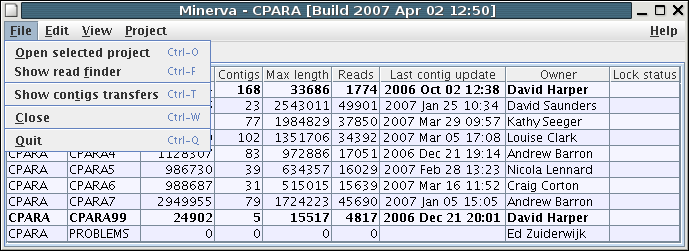
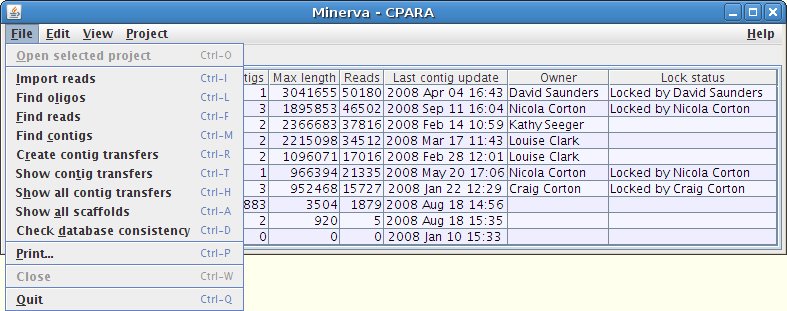
Updated screen shots and fixed some instructions.
git-svn-id: svn+ssh://svn.internal.sanger.ac.uk/repos/svn/arcturus/trunk@3675 69345dfe-1762-0410-a7d4-b9dc18918749

diff --git a/userguide/minerva/project.html b/userguide/minerva/project.html
@@ -162,19 +162,19 @@ tools which Minerva offers.  The <strong>File</strong> menu offers
 several useful options:
 </p>
 <center>
-<img src="screenshots/projects2.png" width="689" height="251" />
+<img src="screenshots/projects2.png" width="787" height="311" />
 </center>
 <p>
 So does the <strong>Project</strong> menu:
 </p>
 <center>
-<img src="screenshots/projects4.png" width="689" height="251" />
+<img src="screenshots/projects4.png" width="787" height="255" />
 </center>
 <p>
 Some options only become available when a project is selected:
 </p>
 <center>
-<img src="screenshots/projects5.png" width="689" height="251" />
+<img src="screenshots/projects5.png" width="787" height="255" />
 </center>
 <p>
 Each option opens a new tab in the organism window.  When several

diff --git a/userguide/minerva/readfinder.html b/userguide/minerva/readfinder.html
@@ -9,10 +9,10 @@ In the <strong>Projects</strong> tab, select the <strong>File</strong>
 menu:
 </p>
 <center>
-<img src="screenshots/projects7.png" height="251" width="689">
+<img src="screenshots/projects2.png" width="787" height="311">
 </center>
 <p>
-When you select the <strong>Show read finder</strong> option,
+When you select the <strong>Find reads</strong> option,
 Minerva displays a new tab:
 </p>
 <center>

diff --git a/userguide/minerva/importreads.html b/userguide/minerva/importreads.html
@@ -11,9 +11,9 @@ the
 <strong>Project</strong> menu:
 </p>
 <center>
-<img src="screenshots/importreads1.png" height="250" width="770"></center>
+<img src="screenshots/projects2.png" width="787" height="311">
 <p>
-When you select the <strong>Import reads into project</strong> option,
+When you select the <strong>Import reads</strong> option,
 Minerva displays a new tab:
 </p>
 <center>

diff --git a/userguide/minerva/oligofinder.html b/userguide/minerva/oligofinder.html
@@ -9,7 +9,7 @@ In the <strong>Projects</strong> tab, select the <strong>Project</strong>
 menu:
 </p>
 <center>
-<img src="screenshots/projects5.png" width="689" height="251" />
+<img src="screenshots/projects2.png" width="787" height="311">
 </center>
 <p>
 When you select the <strong>Find oligos</strong> option,

diff --git a/userguide/minerva/contig.html b/userguide/minerva/contig.html
@@ -9,7 +9,7 @@ In the <strong>Projects</strong> tab, choose a project in the
 table and then select the <strong>File</strong> menu:
 </p>
 <center>
-<img src="screenshots/projects7.png" width="689" height="251" />
+<img src="screenshots/projects2.png" width="787" height="311" />
 </center>
 </p>
 <p>
